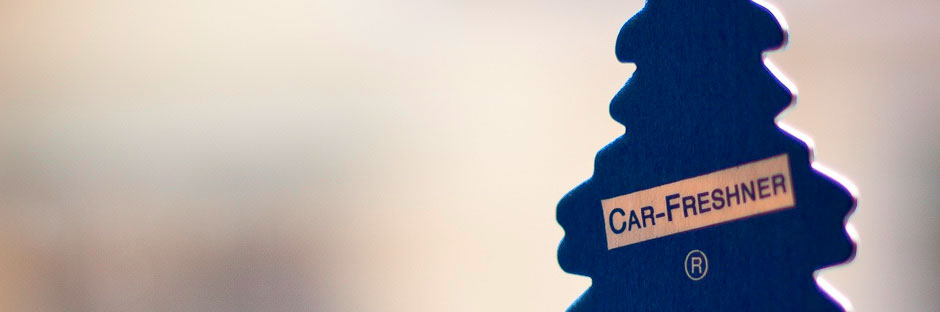
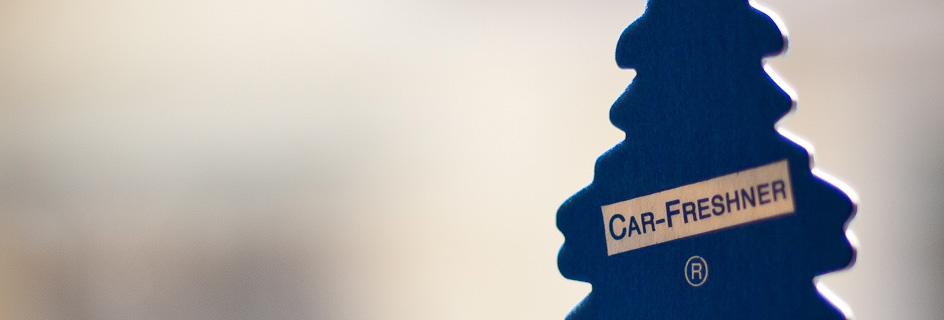
Fix img

diff --git a/assets/css/main.css b/assets/css/main.css
@@ -1,10 +1,11 @@
 body {
   background-attachment: fixed;
[1 lines of base64/hex data omitted]
+  background-image: url('aaa.svg');
[1 lines of base64/hex data omitted]
 }
 .hero-unit {
   background-image: url(../img/photo_head.jpg);
-  background-position: 0% 46.001%;
+  background-position: 0% 80.001%;
   box-shadow: inset 0 0 1em #222;
   border-radius: 0 0 10px 10px;
 }
